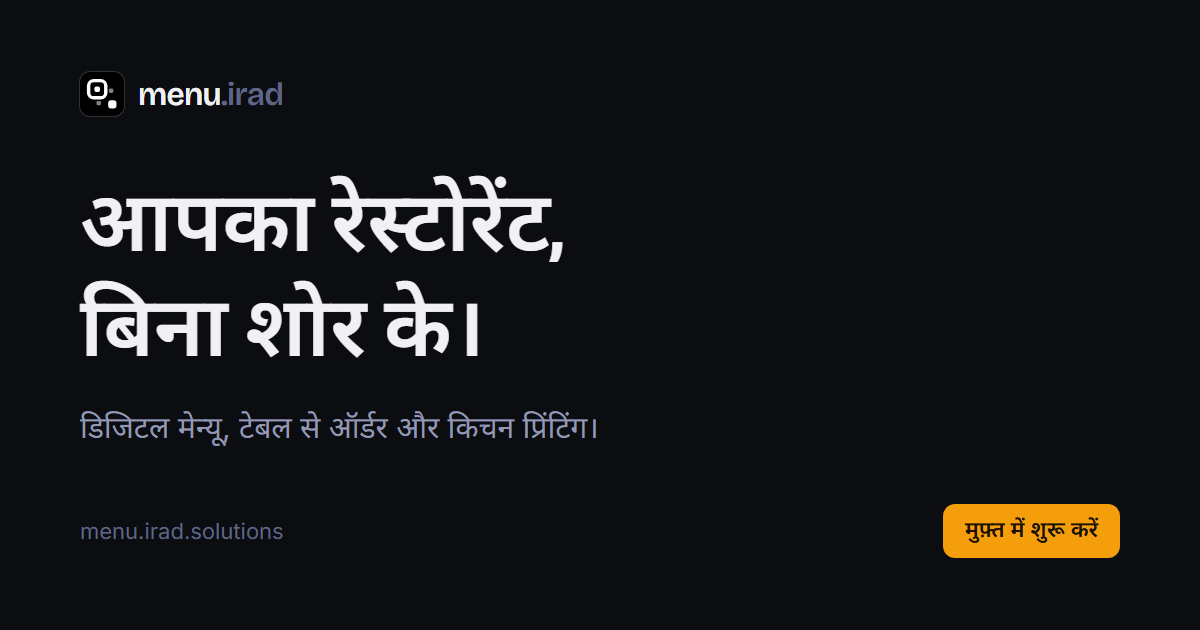
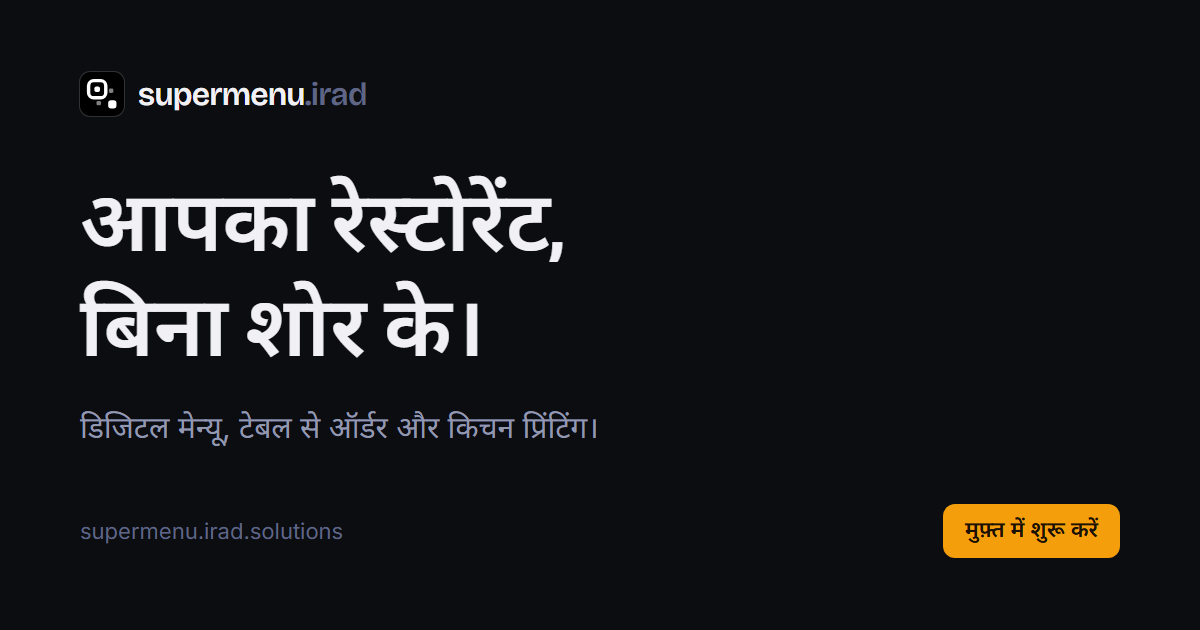
feat(web): the landing page says supermenu, and still answers to the old menu.irad name in search

Changed region(s): [[0.0617, 0.8143, 0.2775, 0.8746], [0.0925, 0.1206, 0.3083, 0.181]]

diff --git a/apps/web/lib/site.ts b/apps/web/lib/site.ts
@@ -1,12 +1,20 @@
 /**
- * The product's public name and address, in one place.
+ * The product's public name and address, for the landing page, its
+ * metadata, the sitemap and the structured data.
  *
- * The marketing page, its metadata, the sitemap and the structured data all
- * read from here, so a rename is a change to this file rather than a hunt
- * through copy. `NEXT_PUBLIC_SITE_URL` overrides the origin for previews.
+ * The product was "menu" at menu.irad.solutions and is now supermenu. The
+ * old name stays in LEGACY_* so search engines can tie it to the new one;
+ * the old host itself keeps working through the 308 redirect that the
+ * rename branch (feat/supermenu-and-kitchen-account) adds to next.config.
+ * Mirrors `@menu/shared` brand.ts on that branch — once both are merged
+ * this file should re-export from there.
+ *
+ * `NEXT_PUBLIC_SITE_URL` overrides the origin for previews.
  */
-export const BRAND_NAME = "menu.irad";
-export const SITE_HOST = "menu.irad.solutions";
+export const BRAND_NAME = "supermenu";
+export const SITE_HOST = "supermenu.irad.solutions";
+export const LEGACY_BRAND_NAMES = ["menu.irad", "menu.irad.solutions"] as const;
+export const LEGACY_SITE_HOSTS = ["menu.irad.solutions"] as const;
 export const SITE_URL = (process.env.NEXT_PUBLIC_SITE_URL ?? `https://${SITE_HOST}`).replace(/\/$/, "");
 
 export const COMPANY_NAME = "irad.solutions";

diff --git a/apps/web/components/landing/seo.ts b/apps/web/components/landing/seo.ts
@@ -1,7 +1,7 @@
 import type { Metadata } from "next";
 import { getTranslations } from "next-intl/server";
 import { LOCALE_PATH, LOCALE_TAG, type Locale } from "@/i18n/locales";
-import { BRAND_NAME, COMPANY_NAME, COMPANY_URL, SITE_URL, TOUR } from "@/lib/site";
+import { BRAND_NAME, COMPANY_NAME, COMPANY_URL, LEGACY_BRAND_NAMES, SITE_URL, TOUR } from "@/lib/site";
 
 /** Title, description, canonical, hreflang alternates and social cards. */
 export async function landingMetadata(locale: Locale): Promise<Metadata> {
@@ -50,6 +50,8 @@ export async function landingMetadata(locale: Locale): Promise<Metadata> {
       "thermal printer",
       "cafe menu",
       "restaurant POS India",
+      BRAND_NAME,
+      ...LEGACY_BRAND_NAMES,
     ],
   };
 }
@@ -83,6 +85,8 @@ export function landingJsonLd({
         "@id": `${SITE_URL}/#website`,
         url: SITE_URL,
         name: BRAND_NAME,
+        // The old name, so searches for it still find the product.
+        alternateName: [...LEGACY_BRAND_NAMES],
         inLanguage: ["en", "hi"],
         publisher: { "@id": org["@id"] },
       },
@@ -90,6 +94,7 @@ export function landingJsonLd({
         "@type": "WebApplication",
         "@id": `${SITE_URL}/#app`,
         name: BRAND_NAME,
+        alternateName: [...LEGACY_BRAND_NAMES],
         url: SITE_URL,
         description,
         applicationCategory: "BusinessApplication",

diff --git a/apps/web/components/landing/landing-page.tsx b/apps/web/components/landing/landing-page.tsx
@@ -280,7 +280,7 @@ export async function LandingPage({ locale }: { locale: Locale }) {
                 <Mark size={24} />
               </span>
               <span className="font-display text-[18px] font-semibold tracking-tight">
-                menu<span className="text-[var(--lp-faint)]">.irad</span>
+                supermenu<span className="text-[var(--lp-faint)]">.irad</span>
               </span>
             </Link>
             <p className="mt-4 max-w-[30ch] text-[14.5px] leading-relaxed text-[var(--lp-muted)]">

diff --git a/apps/web/components/landing/nav.tsx b/apps/web/components/landing/nav.tsx
@@ -68,7 +68,7 @@ export function LandingNav({
               <Mark size={26} />
             </span>
             <span className="font-display text-[19px] font-semibold tracking-tight text-[var(--lp-text)]">
-              menu<span className="text-[var(--lp-faint)]">.irad</span>
+              supermenu<span className="text-[var(--lp-faint)]">.irad</span>
             </span>
           </Link>
 
